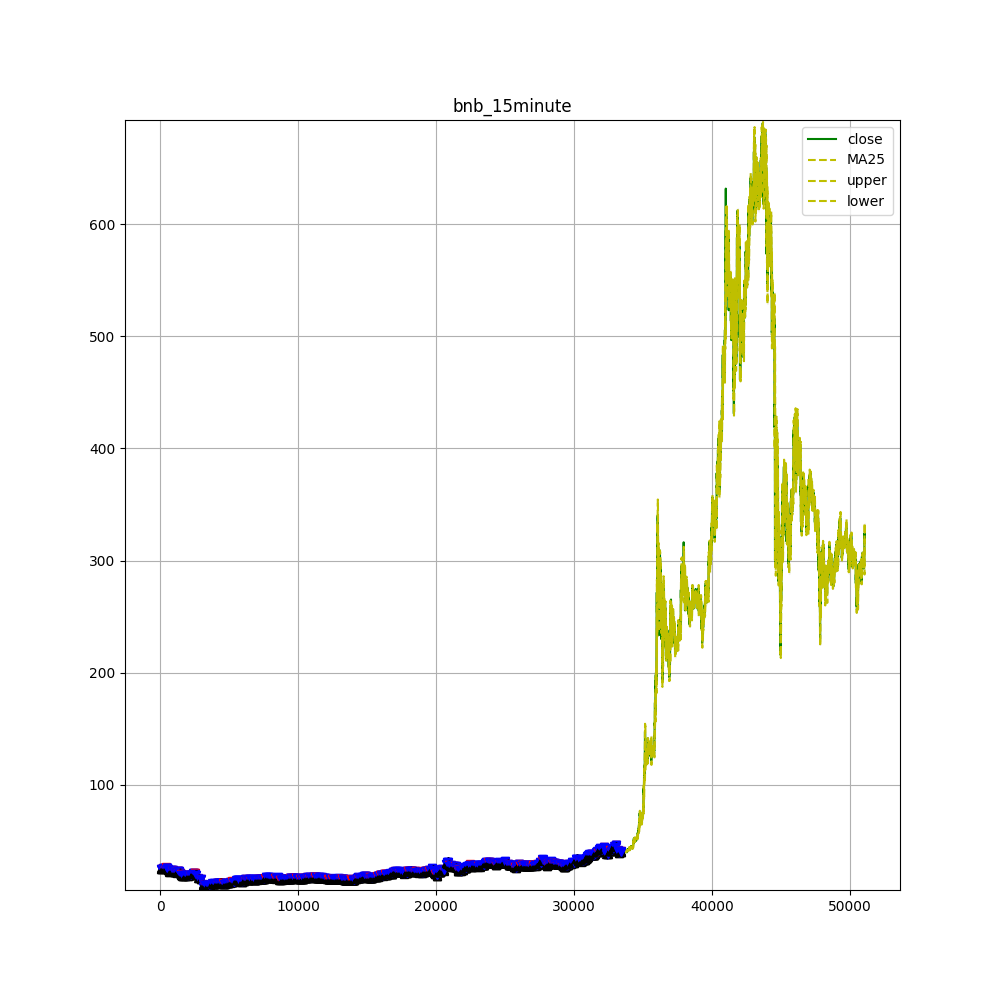
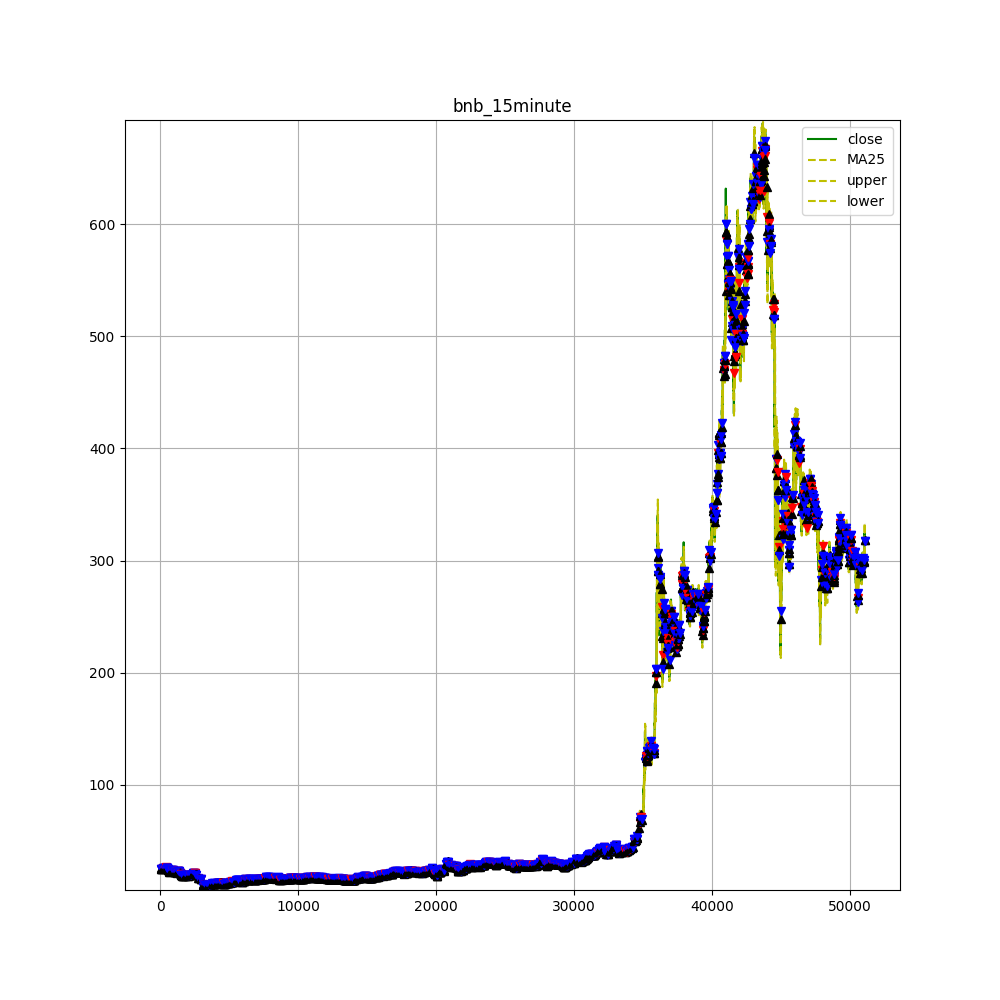
#23 backtest png수정 및 간단한 모듈화

diff --git a/backtest.py b/backtest.py
@@ -116,12 +116,18 @@ class backtest:
                     break
         return
     def bollinger_backtest(self, regulation):
+        def position_setting(enter_price, enter):
+            amounts = self.account / enter_price * leverage
+            self.fee += enter_price * self.fee_maker * amounts
+            self.id = enter
+            self.vdf = self.vdf.append(pd.DataFrame([[self.id, 0, enter_price]], columns=['id', 'mark', 'price']))
+            return amounts
         for enter in range(self.id, len(self.df)):
-            if self.account<=100: #현실적으로 -99퍼 이상이면 청산
-                print(len(self.vdf/2),"번 째 진입에서 청산")
+            if self.account<=100: #현실적으로 초기자본대비 -99퍼 이상이면 청산
+                enter_count = int(len(self.vdf) / 2)
+                print(enter_count,"번 째 진입에서 청산")
                 self.visualization()
                 self.visual_perfomace()
-                enter_count = int(len(self.vdf) / 2)
                 return self.table, -100, -100, enter_count, self.profit_count/enter_count*100, self.loss_count/enter_count*100
             if enter < self.id:continue
             #규제조건에 포함되면 스킵
@@ -131,47 +137,36 @@ class backtest:
             self.fee = 0 #재 진입이므로 fee 초기화
             if self.direction == 'long&short':#양방, 직전 익절
                 if self.df.loc[enter].low <= self.df.loc[enter].lowerBB:#밴드 하단터치 -> 밴드 하단 가격으로 롱 진입
+                    # if
                     enter_price = self.df.loc[enter].lowerBB
                     stop_price = self.df.loc[enter].lower3std
-                    amount = self.account / enter_price * leverage
-                    # if self.succesive_win>1: amount /= (self.succesive_win)
-                    self.fee += enter_price*self.fee_maker * amount
-                    self.id = enter
-                    self.vdf = self.vdf.append(pd.DataFrame([[self.id, 0, enter_price]], columns=['id', 'mark','price']))
+                    amount = position_setting(enter_price, enter)
                     self.profit_or_loss('long', enter_price, stop_price, amount)
                 elif self.df.loc[enter].high >= self.df.loc[enter].upperBB:
                     enter_price = self.df.loc[enter].upperBB
                     stop_price = self.df.loc[enter].upper3std
-                    amount = self.account/enter_price * leverage
                     # if self.succesive_win > 1: amount /= (self.succesive_win)
-                    self.fee += enter_price*self.fee_maker * amount
-                    self.id = enter
-                    self.vdf = self.vdf.append(pd.DataFrame([[self.id, 0, enter_price]], columns=['id', 'mark','price']))
+                    amount = position_setting(enter_price, enter)
                     self.profit_or_loss('short', enter_price, stop_price, amount)
             elif self.direction == 'long':#직전 손절
                 if self.df.loc[enter].low <= self.df.loc[enter].lowerBB:#밴드 하단터치 -> 밴드 하단 가격으로 롱 진입
                     enter_price = self.df.loc[enter].lowerBB
                     stop_price = self.df.loc[enter].lower3std
-                    amount = self.account/enter_price * leverage
-                    self.fee += enter_price*self.fee_maker * amount
-                    self.id = enter
-                    self.vdf = self.vdf.append(pd.DataFrame([[self.id, 0, enter_price]], columns=['id', 'mark','price']))
+                    amount = position_setting(enter_price, enter)
                     self.profit_or_loss('long', enter_price, stop_price, amount)
             elif self.direction == 'short':#직전 손절
                 if self.df.loc[enter].high >= self.df.loc[enter].upperBB:
                     enter_price = self.df.loc[enter].upperBB
                     stop_price = self.df.loc[enter].upper3std
-                    amount = self.account/enter_price * leverage
-                    self.fee += enter_price*self.fee_maker * amount
-                    self.id = enter
-                    self.vdf = self.vdf.append(pd.DataFrame([[self.id, 0, enter_price]], columns=['id', 'mark','price']))
+                    amount = position_setting(enter_price, enter)
                     self.profit_or_loss('short', enter_price, stop_price, amount)
 
-        # self.visualization()
         ror = (self.account - 10000) / 100
         print(ror, len(self.vdf/2))
-        mdd = self.visual_perfomace()
+        # mdd = self.visual_perfomace()
+        mdd=0
         enter_count = int(len(self.vdf) / 2)
+        self.visualization()
         return self.table, ror, mdd, enter_count, self.profit_count/enter_count*100, self.loss_count/enter_count*100
 
     def visualization(self):
@@ -258,7 +253,7 @@ target_table = ['btc_day', 'btc_4hour', 'btc_hour', 'btc_15minute',
                 'xrp_day', 'xrp_4hour', 'xrp_hour', 'xrp_15minute',
                 'ada_day', 'ada_4hour', 'ada_hour', 'ada_15minute']
 # target_table = ['btc_day', 'btc_4hour', 'btc_hour']
-leverage = 3
+leverage = 1
 for i, table in enumerate(target_table):
     backtestObj = backtest(table, (i+1)*3, leverage)
     result_df.loc[table] = backtestObj.bollinger_backtest(0)#regulation: on = 1, off = 0
@@ -266,4 +261,3 @@ plt.show()
 result_df = result_df.set_index('table')
 result_df
 pd.concat([total_df, result_df])
-result_df.to_excel("result.xlsx")
